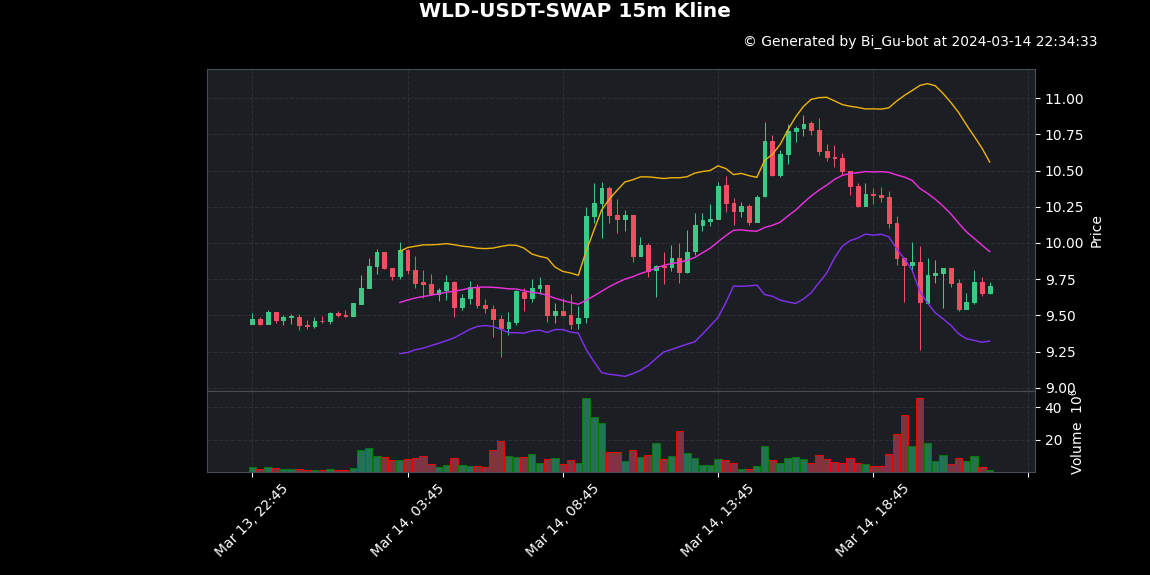
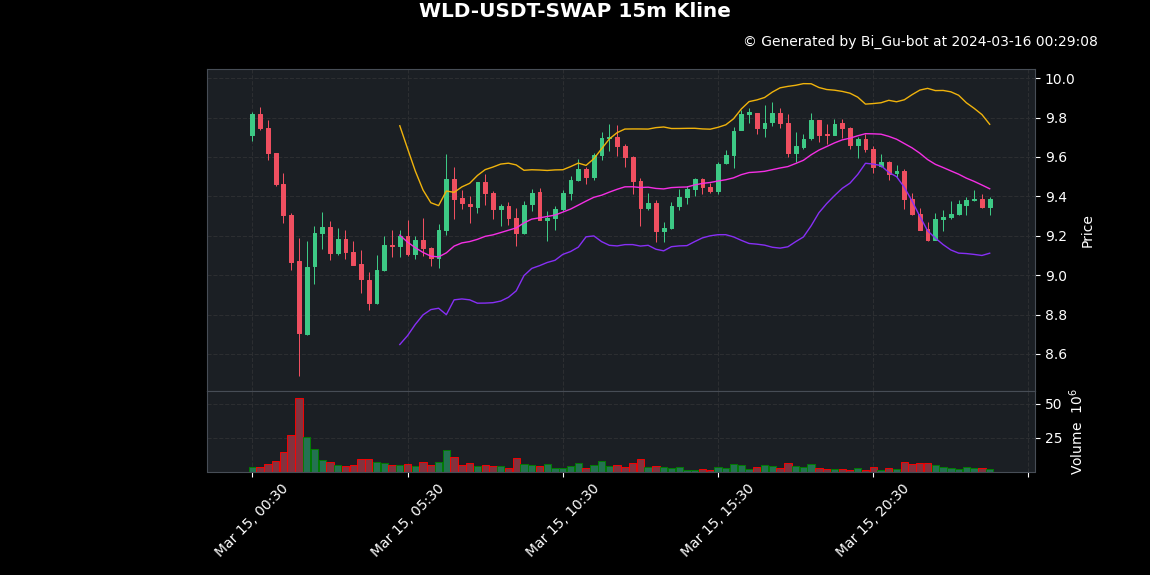
more time intervals for plotting kline

diff --git a/src/plugins/crypto/okx_market_kline.py b/src/plugins/crypto/okx_market_kline.py
@@ -9,9 +9,12 @@ from sys import path
 path.append("D:/Bi_Gu-bot/passwords")
 from passwords import get_passwords
 
-def get_crypto_kline(crypto_name: str) -> MessageSegment:
+def get_crypto_kline(crypto_name: str, time_interval: str = "15m") -> MessageSegment:
     api_info = {"flag": "0", "api_key": get_passwords("okx_api_key"),
             "api_secret_key": get_passwords("okx_api_secret_key"), "passphrase": get_passwords("okx_passphrase")}
+    time_interval_repl = {"15m": "15m", "1h": "1H", "4h": "4H", "1D": "1Dutc", "3D": "3Dutc", "1W": "1Wutc"}
+    _time_interval = time_interval_repl[time_interval]
+    time_interval_dict = {"15m": 900, "1H": 3600, "4H": 14400, "1Dutc": 86400, "3Dutc": 259200, "1Wutc": 604800}
     marketDataAPI = MarketData.MarketAPI(**api_info, debug = False)
     publicDataAPI = PublicData.PublicAPI(**api_info, debug = False)
     instrument_ID = f"{crypto_name}-USDT-SWAP"
@@ -19,8 +22,8 @@ def get_crypto_kline(crypto_name: str) -> MessageSegment:
     instrument_list = [x["instId"] for x in instrument_data if x["settleCcy"] == "USDT"]
     if instrument_ID not in instrument_list:
         return "找不到对应的币种"
-    before_time = int(round(time.time() * 1000)) - 3600000 * 24
-    result = marketDataAPI.get_candlesticks(instId = instrument_ID, bar="15m", before = before_time)["data"][::-1]
+    before_time = int(round(time.time() * 1000)) - 3600000 * 24 / 900 * time_interval_dict[_time_interval]
+    result = marketDataAPI.get_candlesticks(instId = instrument_ID, bar = _time_interval, before = int(before_time))["data"][::-1]
     times = [datetime.datetime.fromtimestamp(int(x[0])/1000) for x in result]
     open_price = [float(x[1]) for x in result]
     highest_price = [float(x[2]) for x in result]
@@ -63,7 +66,7 @@ def get_crypto_kline(crypto_name: str) -> MessageSegment:
     bollinger_bands = [mpf.make_addplot(df["20ma"], color = "#f52fe4", width = 1), 
                        mpf.make_addplot(df["upper_band"], color = "#f0b30c", width = 1),
                        mpf.make_addplot(df["lower_band"], color = "#872ff5", width = 1)]
-    fig, axlist = mpf.plot(df, type="candle", volume = True, style = binance_dark, title = f"{instrument_ID} 15m Kline", 
+    fig, axlist = mpf.plot(df, type="candle", volume = True, style = binance_dark, title = f"{instrument_ID} {time_interval} Kline", 
                     figratio = (16, 8), panel_ratios=(4, 1), addplot = bollinger_bands, returnfig = True, block = False)
     fig.text(0.8, 0.92, "\u00A9" + f" Generated by Bi_Gu-bot at {datetime.datetime.now().strftime('%Y-%m-%d %H:%M:%S')}", ha='center', fontsize = 10, color = "white")
     fig.savefig(os.getcwd() + "/src/plugins/crypto/mpfplot.png")

diff --git a/src/plugins/crypto/__init__.py b/src/plugins/crypto/__init__.py
@@ -19,9 +19,20 @@ config = get_plugin_config(Config)
 crpyto = on_command("crypto")
 @crpyto.handle()
 async def crypto_handle(args = CommandArg()):
-    if crypto_name := args.extract_plain_text():
-        message = get_crypto_kline(crypto_name)
-        await crpyto.finish(message = message)
+    if cmd_params := args.extract_plain_text():
+        if " " in cmd_params:
+            cmd_params = cmd_params.split(" ")
+            if len(cmd_params) == 2:
+                crypto_name = cmd_params[0]
+                time_interval = cmd_params[1]
+                if time_interval not in ["15m", "1h", "4h", "1D", "3D", "1W"]:
+                    await crpyto.finish(message = "时间间隔不合法, 目前支持15m/1h/4h/1D/3D/1W")
+                else:
+                    message = get_crypto_kline(crypto_name, time_interval)
+                    await crpyto.finish(message = message)
+        else:
+            message = get_crypto_kline(cmd_params)
+            await crpyto.finish(message = message)
     else:
         message = get_market_data()
         await crpyto.finish(message = message)
